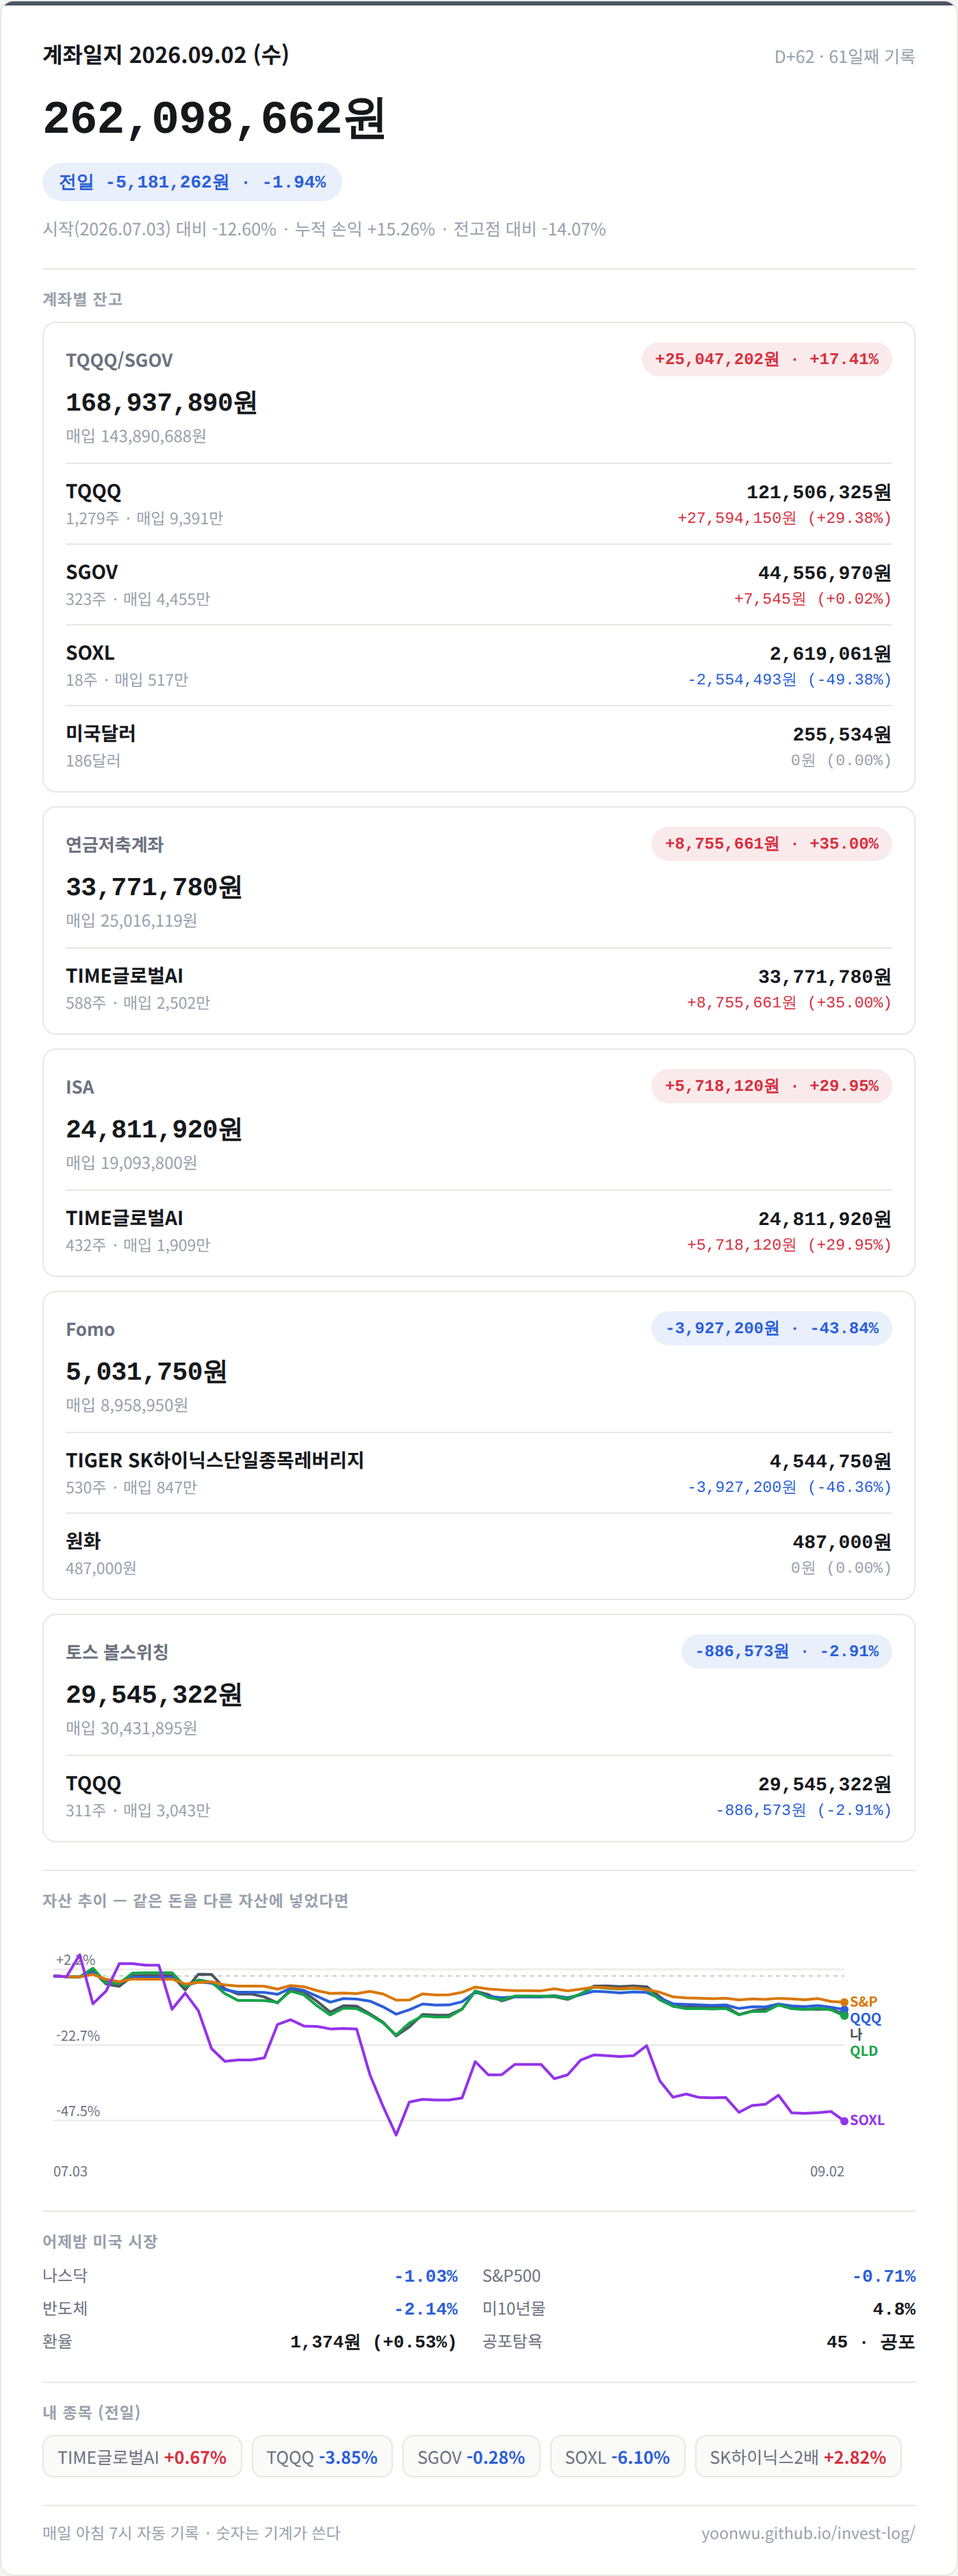
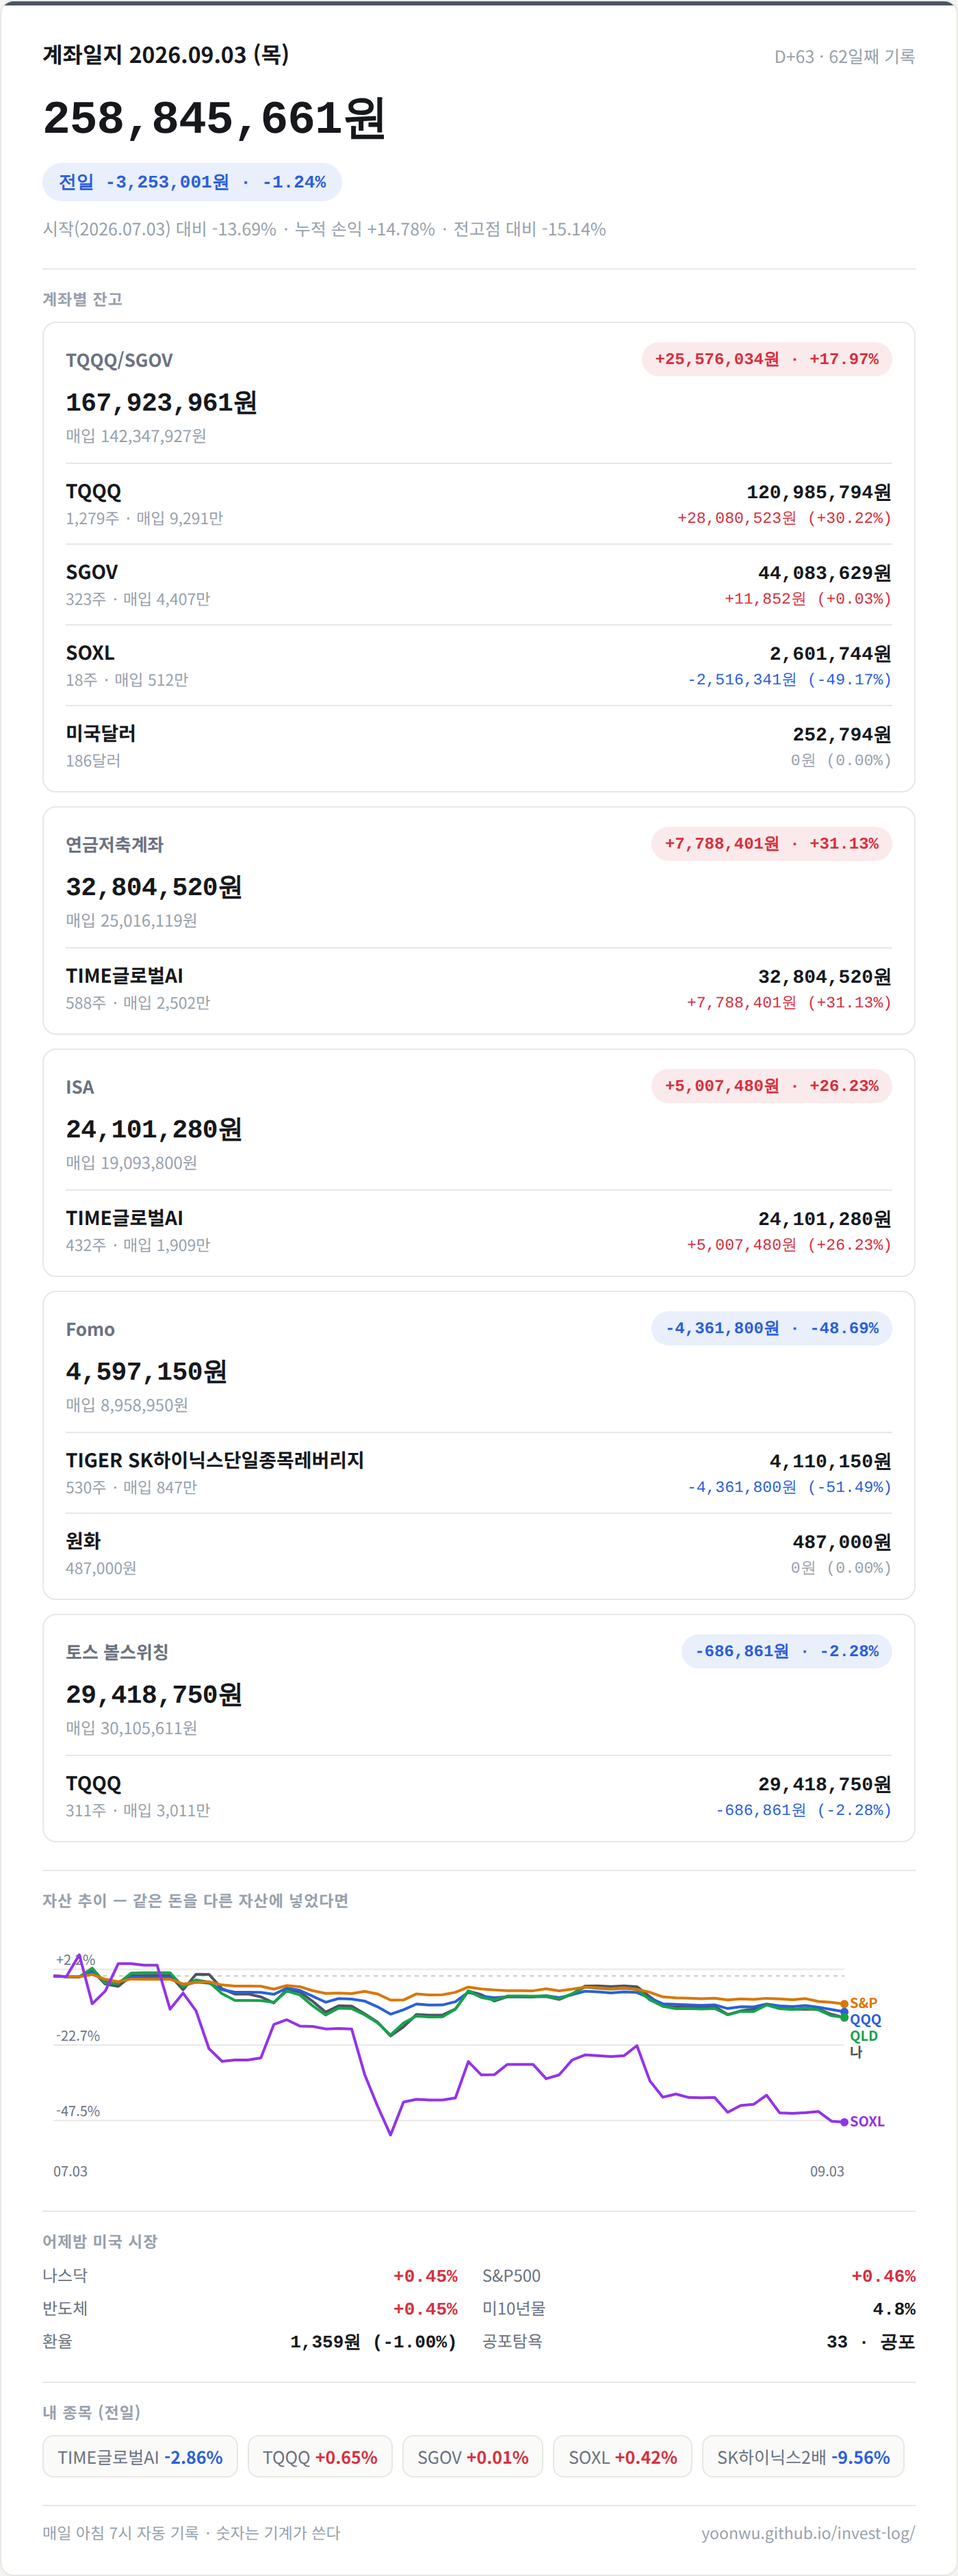
chore: 일지 스냅샷 2026-09-03

diff --git a/_posts/2026-09-03-journal.md b/_posts/2026-09-03-journal.md
@@ -1,0 +1,67 @@
+---
+layout: journal
+category: 일지
+title: "계좌일지 2026.09.03 (목) D+63"
+---
+<article class="entry">
+  <div class="entry-head">
+    <div class="entry-date">09.03 (목)
+      <span class="dplus">D+63</span></div>
+    <button class="copy-btn" id="copy-journal">복사</button>
+  </div>
+  <div class="entry-total">
+    <span class="tot">258,845,661원</span>
+    <span class="pill down">-3,253,001원 · -1.24%</span>
+  </div>
+  <div class="entry-accts">TQQQ/SGOV 167,923,961원 · 연금저축계좌 32,804,520원 · ISA 24,101,280원 · Fomo 4,597,150원 · 토스 볼스위칭 29,418,750원<br>
+    시작 대비 <b class="down">-13.69%</b> ·
+    전고점 대비 <b class="down">-15.14%</b> (언더워터 58일)</div>
+
+  <div class="sec-label">어젯밤 미국 시장</div>
+  <div class="mgrid">
+    <span>나스닥</span><b class="up">+0.45%</b>
+    <span>S&amp;P500</span><b class="up">+0.46%</b>
+    <span>반도체</span><b class="up">+0.45%</b>
+    <span>미10년물</span><b>4.8%</b>
+    <span>환율</span><b>1,359원</b>
+    <span>공포탐욕</span><b>33 공포</b>
+  </div>
+
+  <div class="sec-label">내 종목</div>
+  <div class="chips"><span class="chip">TIME AI <b class="down">-2.86%</b></span><span class="chip">TQQQ <b class="up">+0.65%</b></span><span class="chip">SGOV <b class="up">+0.01%</b></span><span class="chip">SOXL <b class="up">+0.42%</b></span><span class="chip">SK하이닉스2배 <b class="down">-9.56%</b></span></div>
+
+  <div class="sec-label">같은 돈이면 (시작일 대비)</div>
+  <div class="chips">
+    <span class="chip">나 <b class="down">-13.69%</b></span>
+    <span class="chip">QQQ <b class="down">-11.81%</b></span>
+    <span class="chip">QLD <b class="down">-13.64%</b></span>
+  </div>
+
+  
+  
+</article>
+<textarea id="copy-src" style="position:absolute;left:-9999px" readonly>📒 계좌일지 2026.09.03 (목) D+63
+
+[계좌] 총 258,845,661원 (전일 ▼ 3,253,001원, -1.24%)
+ · TQQQ/SGOV 167,923,961원 (+17.97%)
+ · 연금저축계좌 32,804,520원 (+31.13%)
+ · ISA 24,101,280원 (+26.23%)
+ · Fomo 4,597,150원 (-48.69%)
+ · 토스 볼스위칭 29,418,750원 (-2.28%)
+시작일 대비 -13.69% · 전고점 대비 -15.14%
+
+[시장] 나스닥 +0.45% · S&amp;P500 +0.46% · 반도체 +0.45% · 미10년물 4.8%
+456600 -2.86% · TQQQ +0.65% · SGOV +0.01% · SOXL +0.42% · 0195S0 -9.56% · 환율 1,359원(-1.00%)
+공포탐욕지수 33 (공포)
+같은 돈이면: QQQ -11.81% · QLD -13.64% · 나 -13.69%
+
+원본(조작 불가 커밋 이력 포함): https://yoonwu.github.io/invest-log/</textarea>
+<script>
+document.getElementById("copy-journal").onclick = async () => {
+  const btn = document.getElementById("copy-journal");
+  try {
+    await navigator.clipboard.writeText(document.getElementById("copy-src").value);
+    btn.textContent = "복사됨 ✓"; setTimeout(() => btn.textContent = "복사", 1500);
+  } catch { btn.textContent = "실패"; }
+};
+</script>
